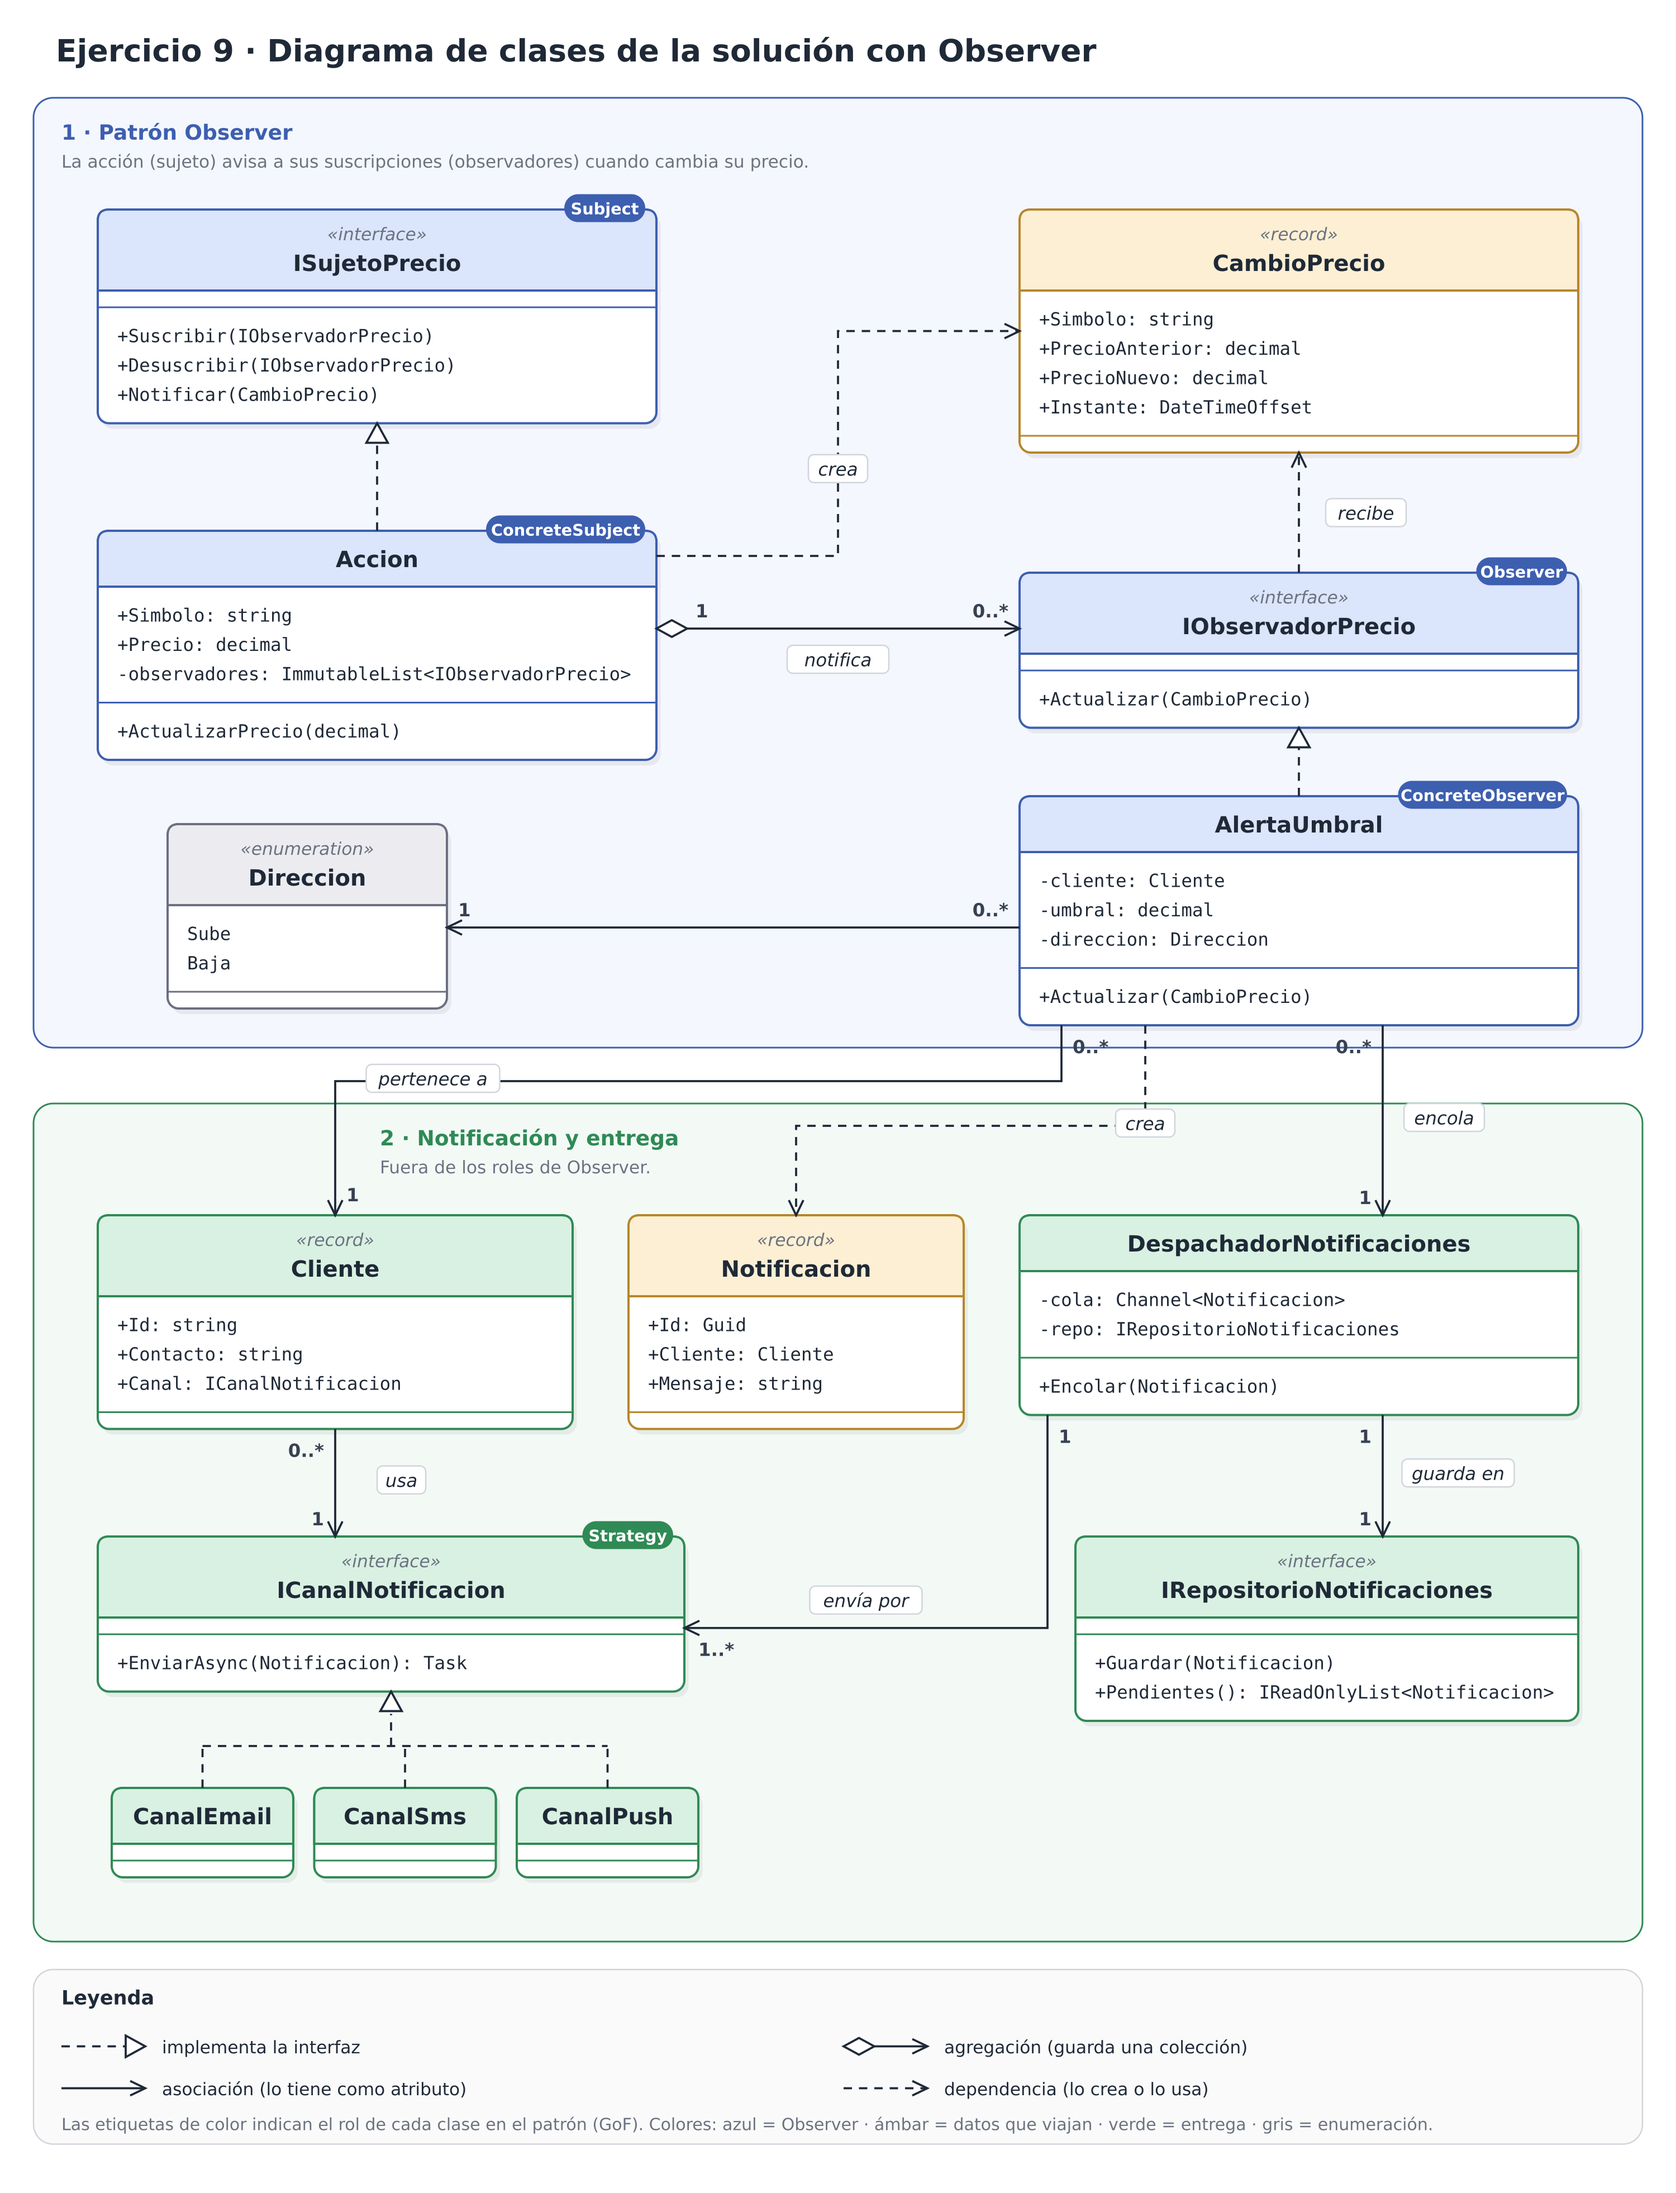
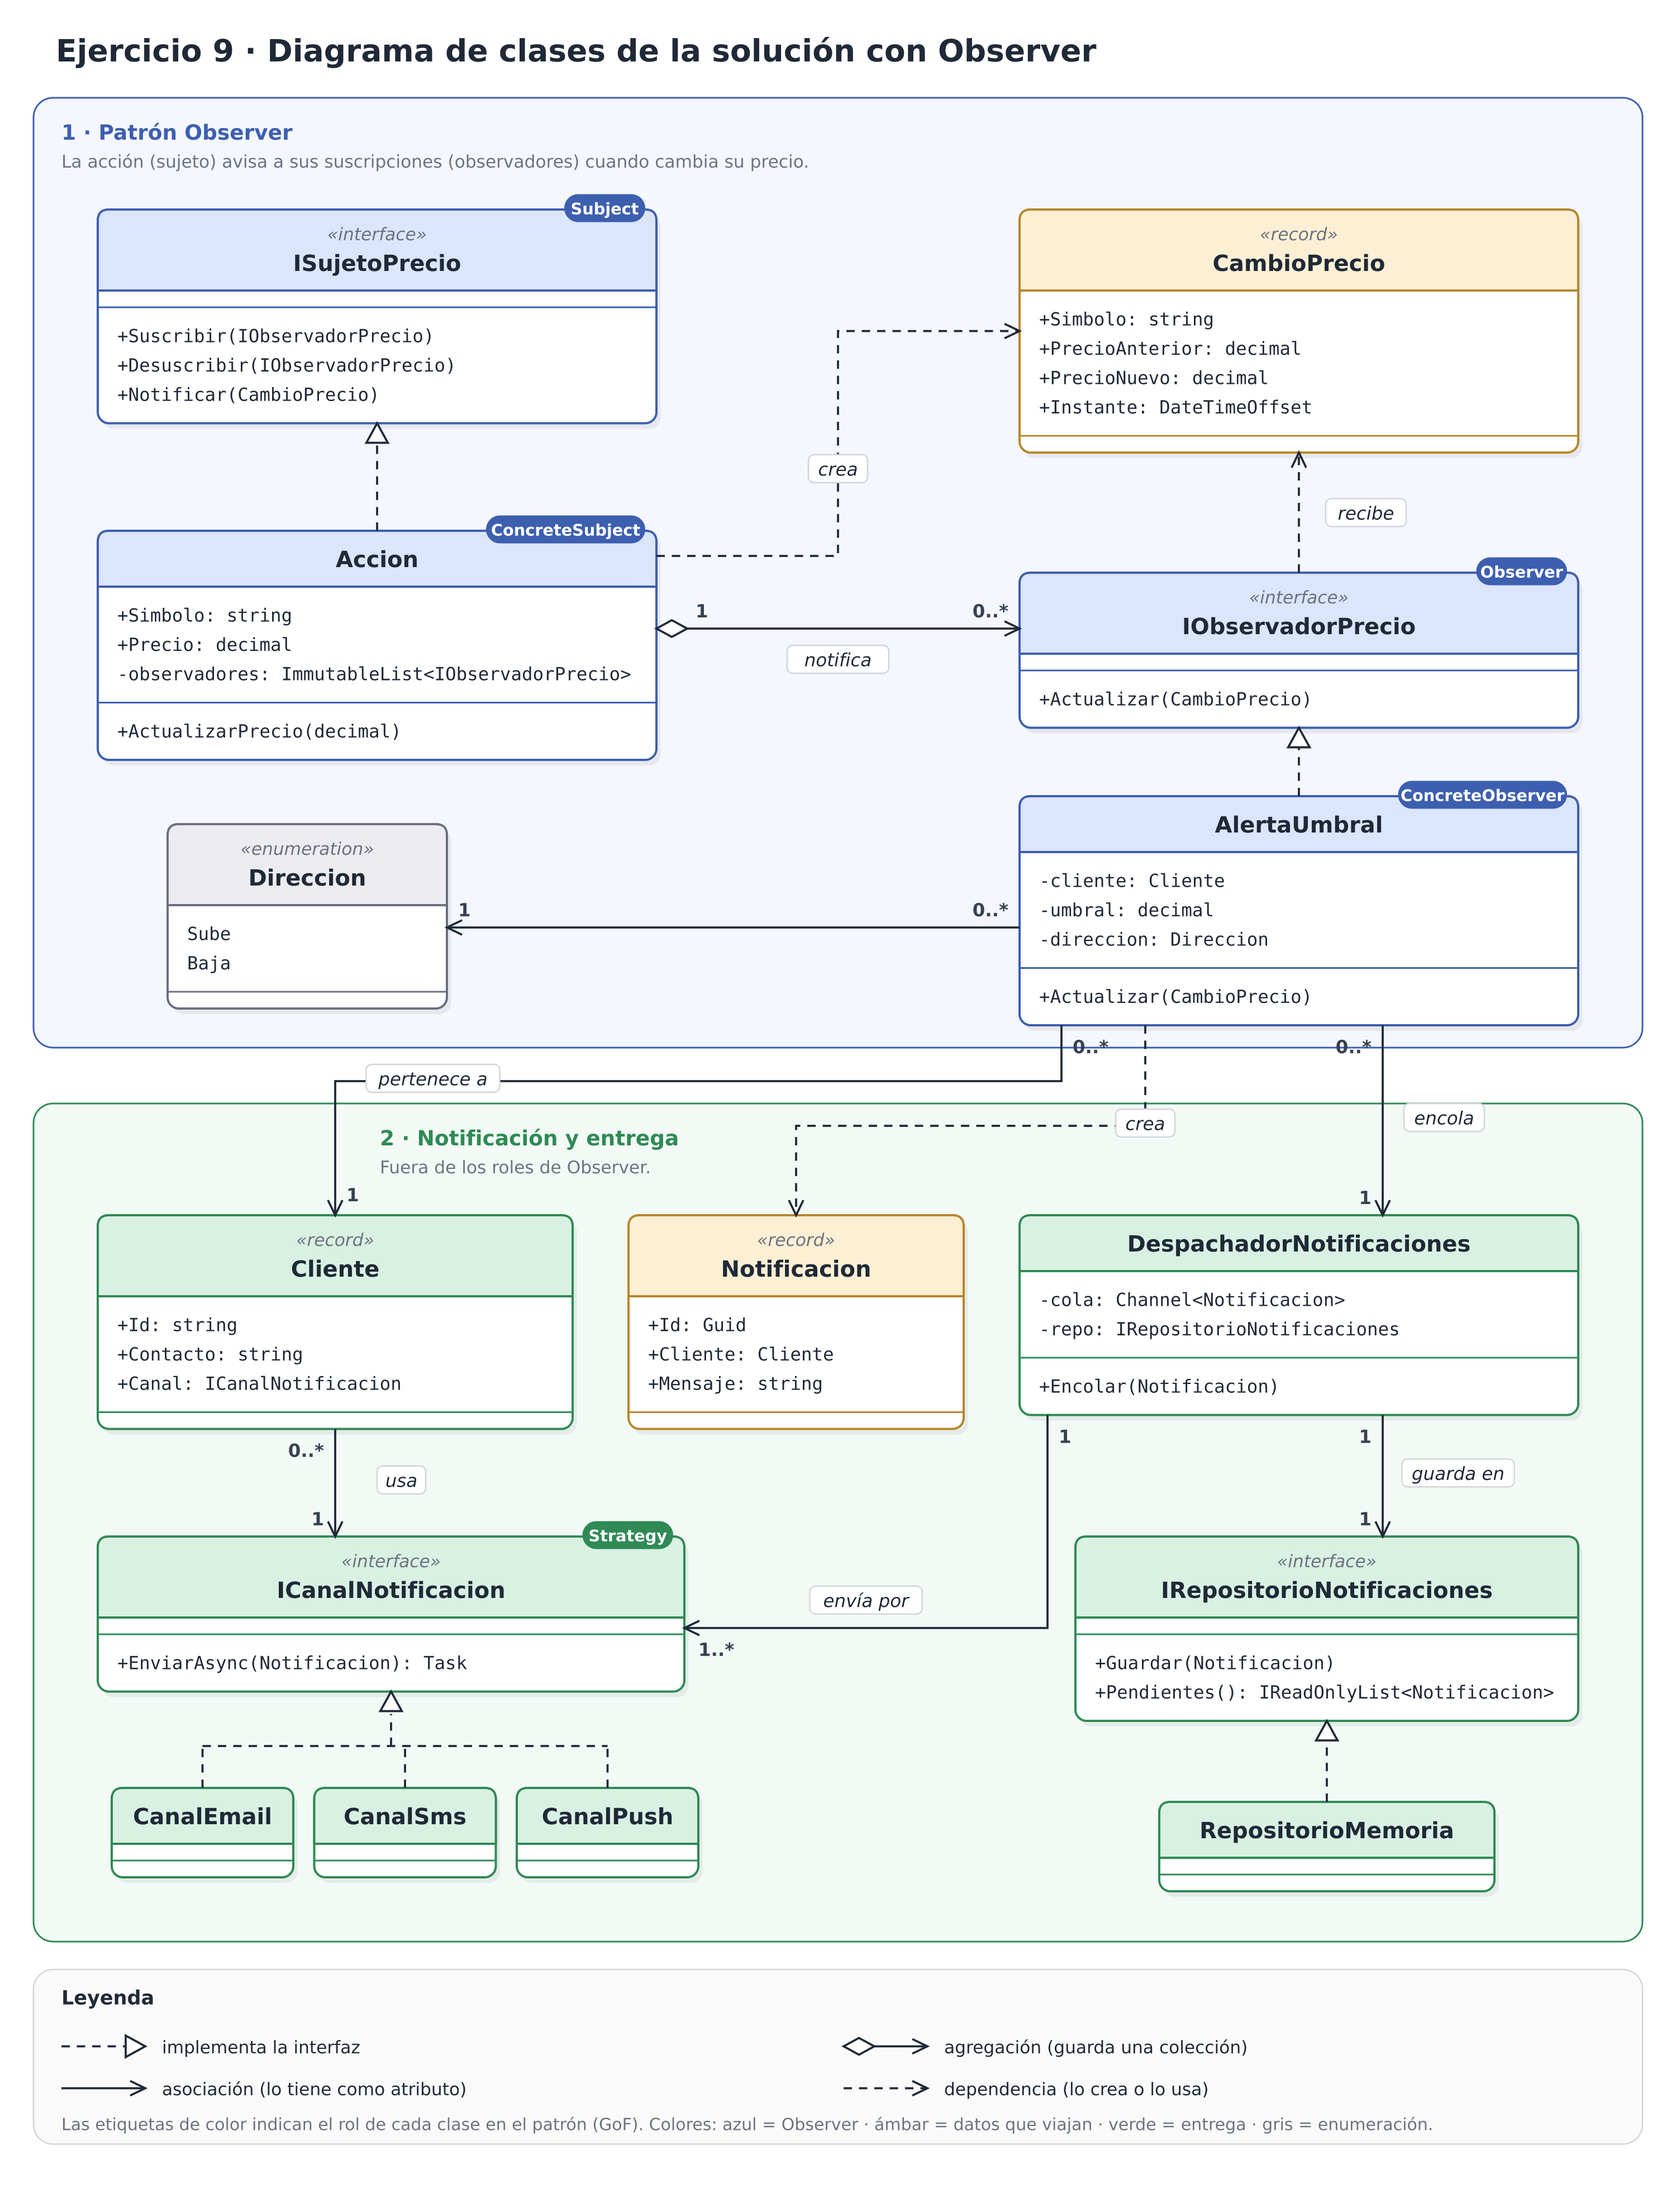
Diagrama: añadir RepositorioMemoria, la implementación que usa el inciso b

Changed region(s): [[0.682, 0.8082, 0.899, 0.8703]]

diff --git a/ejercicio-09-notificaciones-bolsa/latex/inciso-a.tex b/ejercicio-09-notificaciones-bolsa/latex/inciso-a.tex
@@ -93,7 +93,9 @@ implementa de forma explícita para que se vean los roles del patrón.
   \item \textbf{\texttt{DespachadorNotificaciones}}: separa la detección del evento del envío
         real. Se encarga de que el envío sea asíncrono (inciso c), de los reintentos y de la
         persistencia (restricción). En este inciso solo se presenta el diseño; se implementa
-        en los incisos y en la restricción que lo usan.
+        en los incisos y en la restricción que lo usan. Guarda las notificaciones en un
+        \texttt{IRepositorioNotificaciones}; \texttt{RepositorioMemoria} es la implementación
+        en memoria que usa el inciso b.
 \end{itemize}
 
 \paragraph{Decisiones de diseño.}

diff --git a/ejercicio-09-notificaciones-bolsa/inciso-a.md b/ejercicio-09-notificaciones-bolsa/inciso-a.md
@@ -38,7 +38,7 @@ El libro de la «banda de los cuatro» (*Gang of Four*, GoF), la referencia clá
 ### Clases de apoyo (fuera de los roles de Observer)
 
 - **Canales (`CanalEmail`, `CanalSms`, `CanalPush`)**: formas de envío intercambiables detrás de `ICanalNotificacion`. Funciona como un **Strategy**, porque cada cliente elige su canal. Los canales **no son observadores**: el observador decide *si* hay que avisar, y el canal decide *cómo* se entrega el aviso.
-- **`DespachadorNotificaciones`**: separa la detección del evento del envío real. Se encarga de que el envío sea asíncrono (inciso c), de los reintentos y de la persistencia (restricción). En este inciso solo se presenta el diseño; se implementa en los incisos y en la restricción que lo usan.
+- **`DespachadorNotificaciones`**: separa la detección del evento del envío real. Se encarga de que el envío sea asíncrono (inciso c), de los reintentos y de la persistencia (restricción). En este inciso solo se presenta el diseño; se implementa en los incisos y en la restricción que lo usan. Guarda las notificaciones en un `IRepositorioNotificaciones`; `RepositorioMemoria` es la implementación en memoria que usa el inciso b.
 
 ### Decisiones de diseño
 

diff --git a/ejercicio-09-notificaciones-bolsa/diagramas/como-leer-el-diagrama.md b/ejercicio-09-notificaciones-bolsa/diagramas/como-leer-el-diagrama.md
@@ -37,7 +37,7 @@ A partir de ahí:
 - **`CanalEmail`, `CanalSms` y `CanalPush`** implementan esa interfaz y comparten un único triángulo de herencia. Funciona como un **Strategy** (por eso lleva esa etiqueta): el observador decide **si** hay que avisar y el canal decide **cómo** se entrega el aviso.
 - **`DespachadorNotificaciones`** separa la detección del evento del envío real:
   - **envía por** los canales (1 → 1..\*);
-  - **guarda en** el **`IRepositorioNotificaciones`** (1 → 1).
+  - **guarda en** el **`IRepositorioNotificaciones`** (1 → 1), que **`RepositorioMemoria`** implementa en memoria para el inciso b.
 
   El inciso c usará el despachador para el envío asíncrono, y la restricción lo usará para la persistencia y los reintentos.
 
